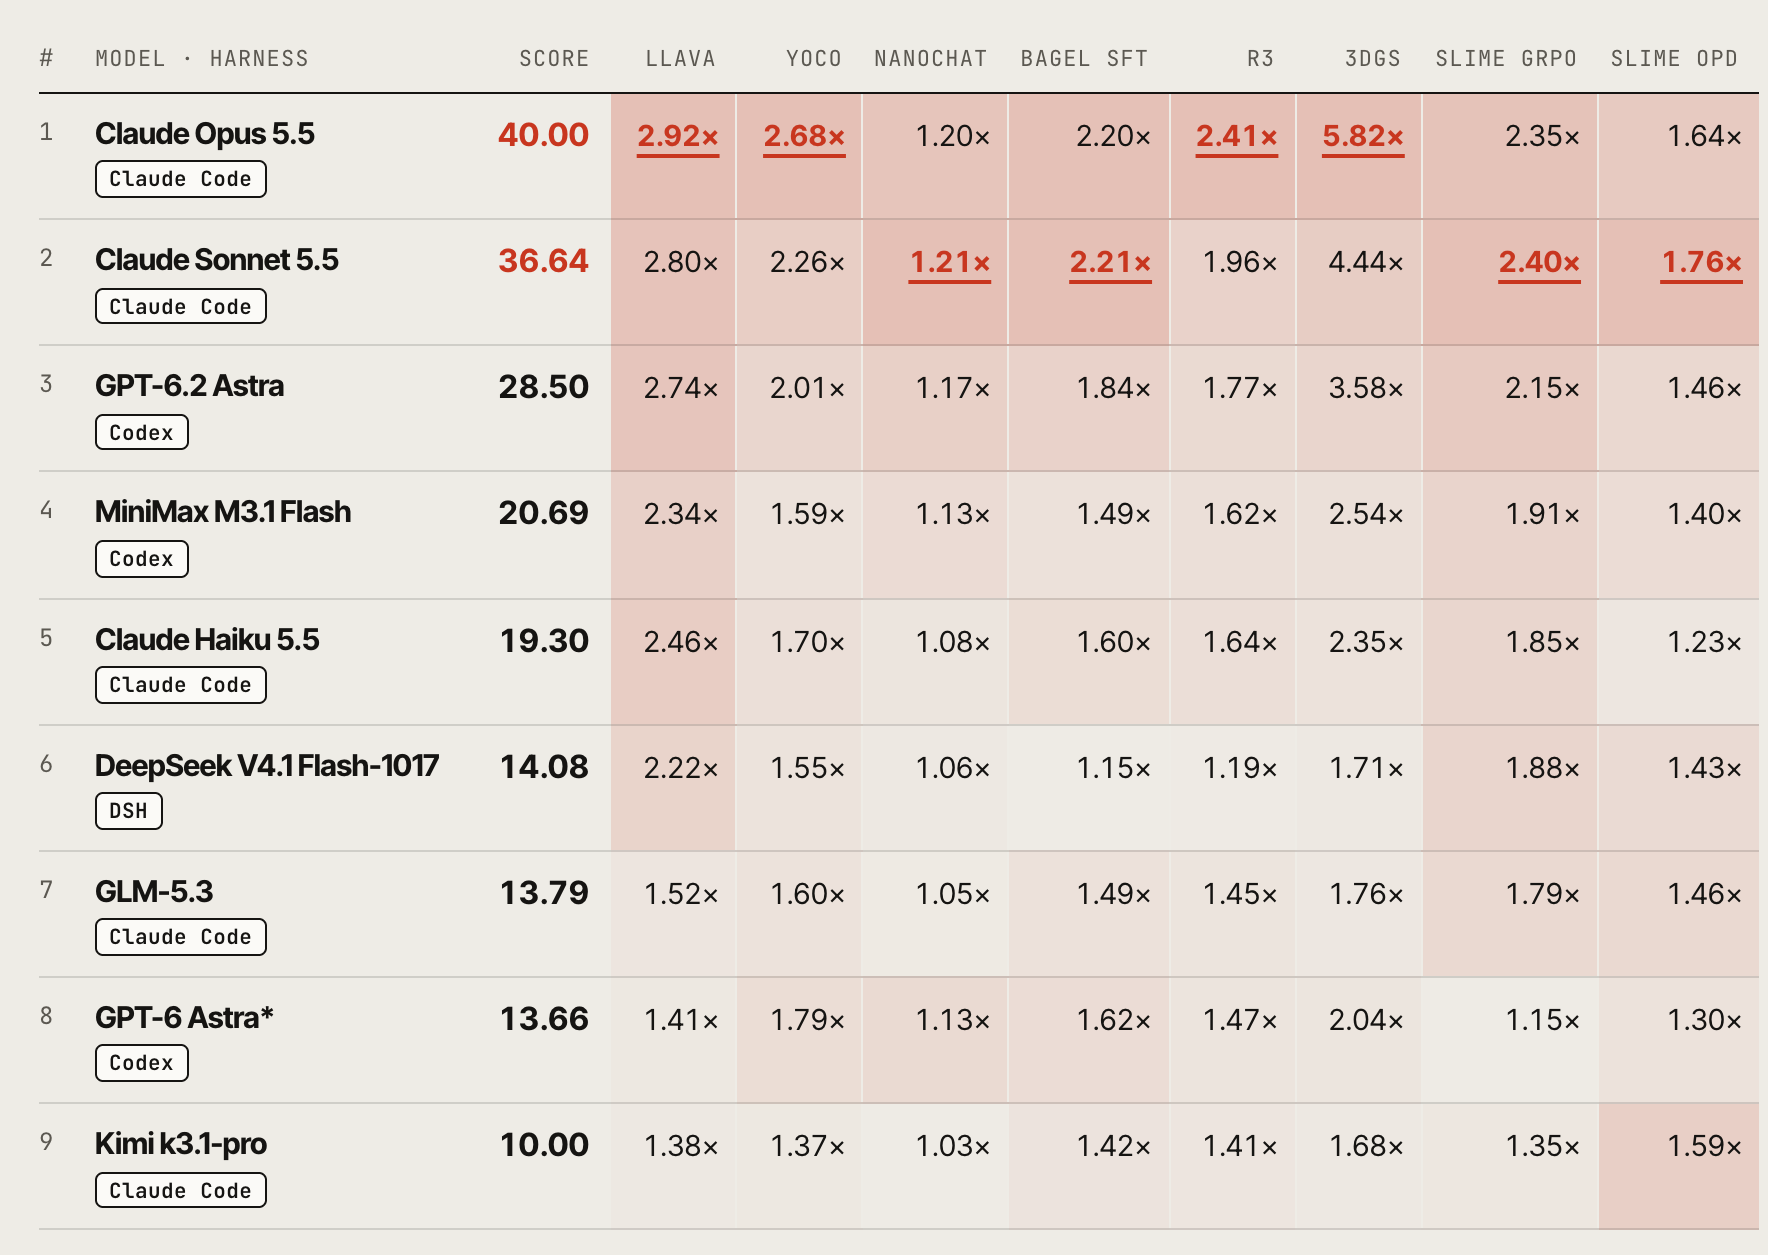
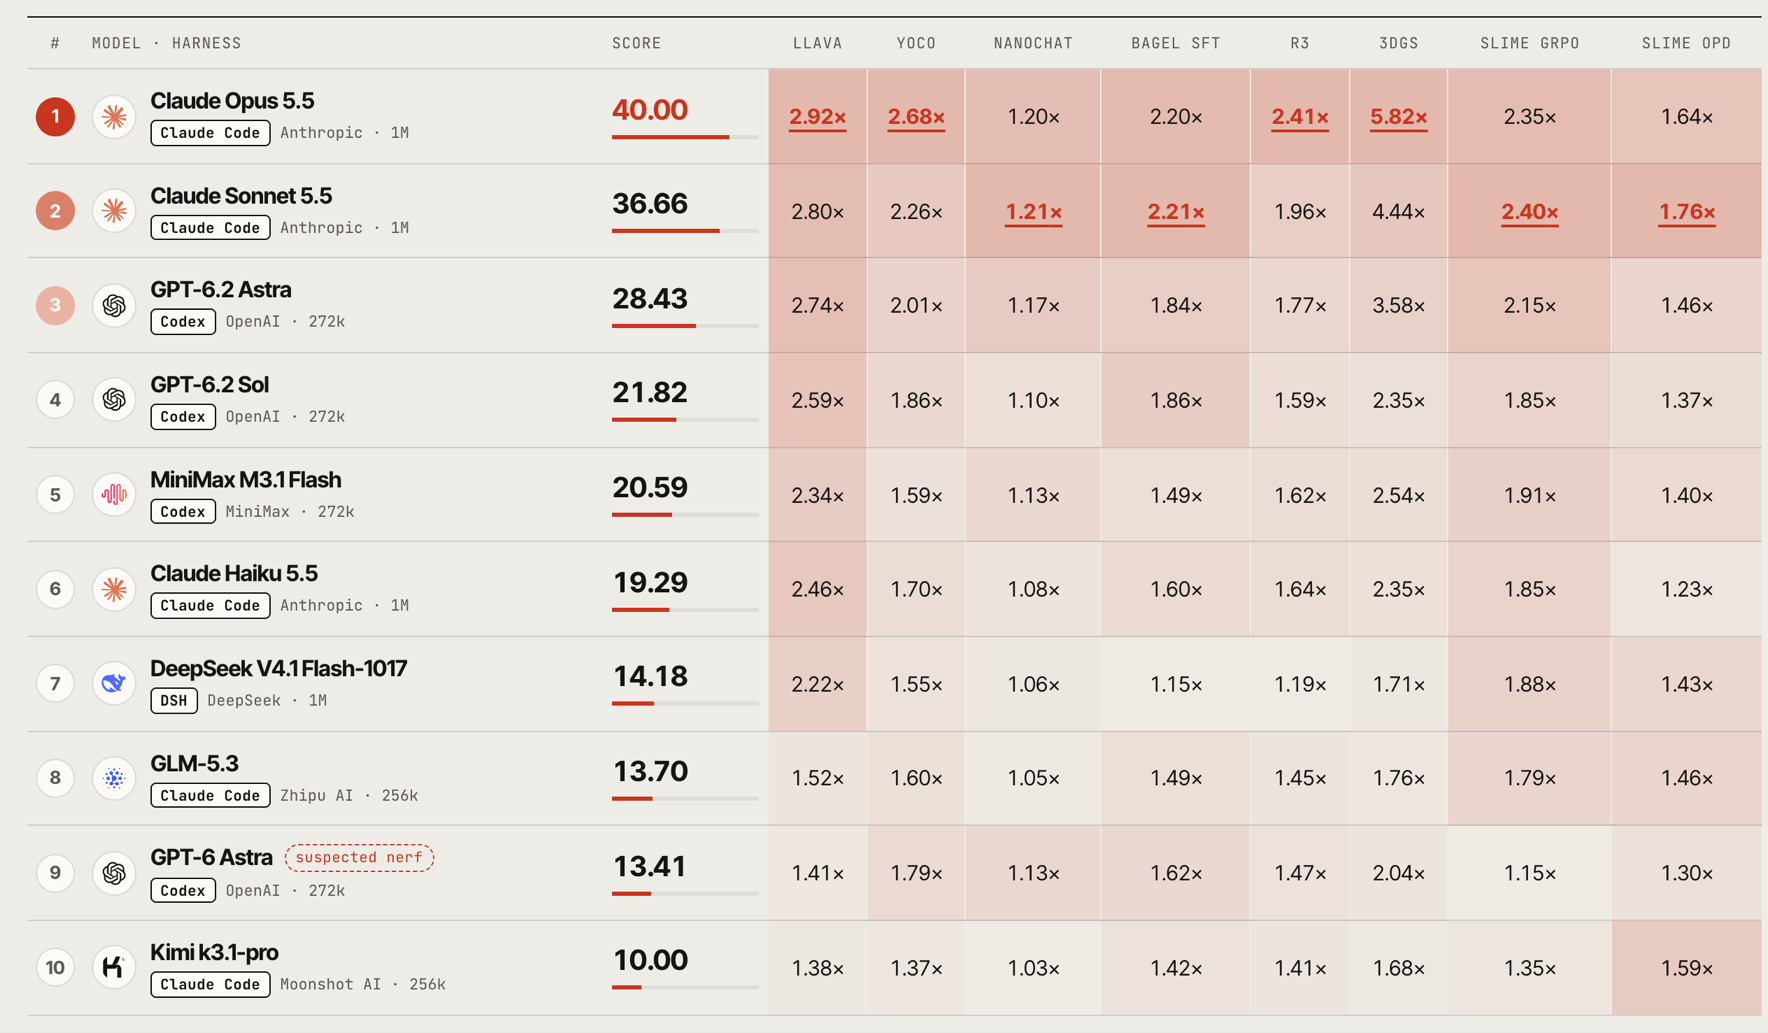
README: leaderboard with GPT-6.2 Sol (ten models)
The overall-score and per-task images are re-shot from the live leaderboard, which now has GPT-6.2 Sol in fourth
place (21.82; the ECI refit moves the others by at most 0.25); the note says when the two GPT-6.2 models joined.

diff --git a/README.md b/README.md
@@ -44,7 +44,7 @@ Final judged speedups against each task’s baseline.
 </p>
 
 <sub>\* GPT-6 Astra: suspected nerf; it feels different from our early testing.
-GPT-6.2 Astra joined on 18 November with the same setup (Codex, reasoning effort max, 10 hours).
+GPT-6.2 Astra (18 November) and GPT-6.2 Sol (19 November) joined with the same setup (Codex, reasoning effort max, 10 hours).
 Scores come from an ECI fit over all models together, so every rank is dynamic:
 each new model refits the scale, and the scores and ranks of the others can move.</sub>
 
